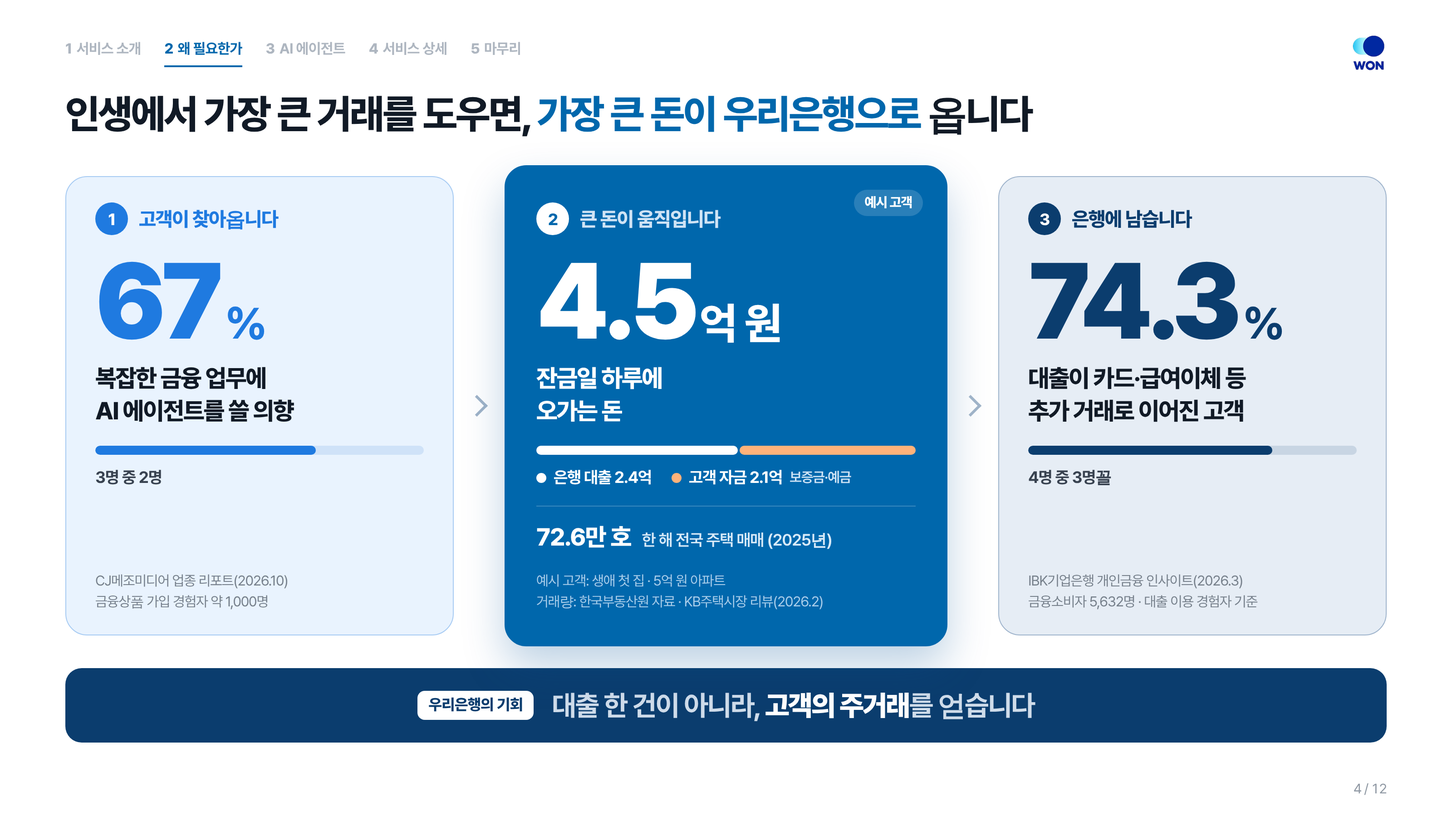
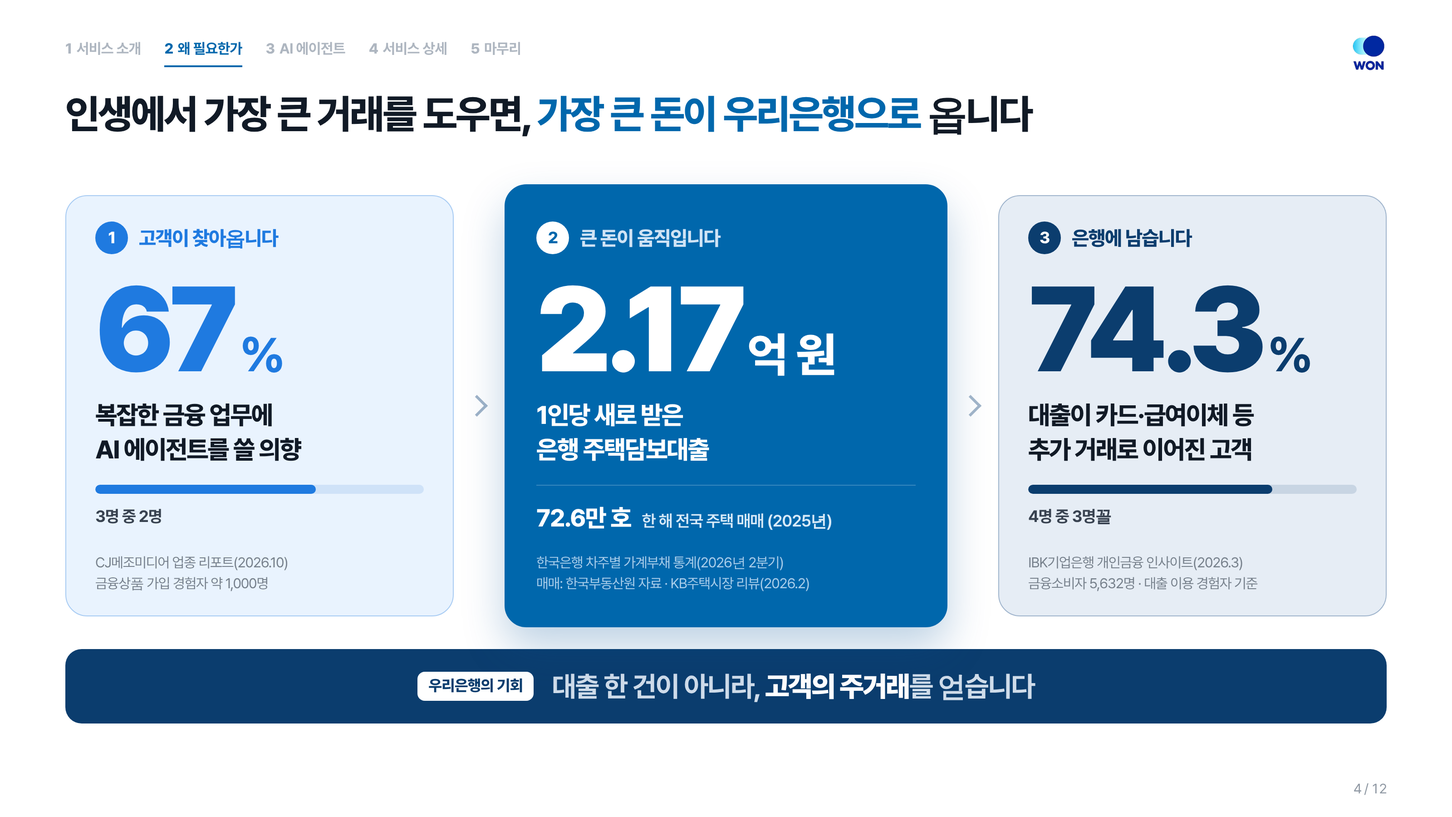
4장 가운데 카드를 실제 통계로 교체
- 예시 고객 잔금(4.5억 원) 대신 한국은행 차주별 가계부채 통계의
  은행 주담대 1인당 신규 취급액 2.17억 원(2026년 2분기)을 사용
- 큰 숫자 크기를 키우고 예시 막대·범례 규칙 삭제
- 대본 가운데 문장, 시간 검증(55초), 출처표, 예상 질문 갱신

Claude-Session: https://claude.ai/code/session_016QPZpXfBcxdxzD5M5Hwas6

diff --git a/p4_revision/04_우리은행의기회_단독.html b/p4_revision/04_우리은행의기회_단독.html
@@ -389,16 +389,16 @@ svg.i{width:1em;height:1em;fill:none;stroke:currentColor;stroke-width:1.9;stroke
 
 /* ───────── S4 우리은행의 기회: 고객이 찾아오고 → 큰 돈이 움직이고 → 은행에 남는다 ─────────
    색은 왼쪽(고객 쪽 밝은 블루)에서 오른쪽(은행 쪽 남색)으로 깊어지고, 가운데 '큰 돈'만 채운 블루로 주인공을 만든다.
-   큰 숫자는 비례폭 숫자(tabular-nums 쓰지 않음). 막대는 얇게(10px), 조각 사이 2px 간격, 범례로 이름을 붙인다. */
+   큰 숫자는 비례폭 숫자(tabular-nums 쓰지 않음). 비율 막대는 얇게(10px), 빈 트랙은 같은 계열의 옅은 색. */
 .op{gap:24px;padding-top:4px}
 .op-flow{display:grid;grid-template-columns:1fr 1.14fr 1fr;gap:56px;align-items:stretch}
 .op-card{position:relative;display:flex;flex-direction:column;padding:28px 32px 24px;border-radius:24px;background:var(--soft);border:1.5px solid var(--line)}
 .op-card:not(:last-child)::after{content:"";position:absolute;right:-35px;top:50%;width:14px;height:14px;border-top:3.5px solid #9fb3c8;border-right:3.5px solid #9fb3c8;transform:translateY(-50%) rotate(45deg)}
 .op-ey{display:flex;align-items:center;gap:12px;font-size:22px;font-weight:800;letter-spacing:-.035em;line-height:1.3}
 .op-ey i{width:36px;height:36px;border-radius:50%;display:grid;place-items:center;font-style:normal;font-size:18px;font-weight:800;color:#fff;flex:none}
-.op-big{margin:8px 0 2px;font-size:118px;font-weight:900;line-height:1.1;letter-spacing:-.05em;white-space:nowrap}
-.op-big small{font-size:48px;font-weight:800;margin-left:6px;letter-spacing:-.03em}
-.op-k{font-size:27px;font-weight:800;line-height:1.34;color:var(--ink);letter-spacing:-.04em}
+.op-big{margin:10px 0 4px;font-size:132px;font-weight:900;line-height:1.1;letter-spacing:-.05em;white-space:nowrap}
+.op-big small{font-size:52px;font-weight:800;margin-left:6px;letter-spacing:-.03em}
+.op-k{font-size:28px;font-weight:800;line-height:1.34;color:var(--ink);letter-spacing:-.04em}
 .op-card cite{display:block;margin-top:auto;padding-top:16px;font-style:normal;font-size:15.5px;line-height:1.5;color:#77818c}
 /* 비율 막대(미터): 채운 부분 = 카드 색, 빈 트랙 = 같은 계열의 옅은 색 */
 .op-meter{height:10px;margin-top:20px;border-radius:5px;background:var(--trk);overflow:hidden}
@@ -406,13 +406,11 @@ svg.i{width:1em;height:1em;fill:none;stroke:currentColor;stroke-width:1.9;stroke
 .op-cap{margin-top:12px;font-size:18px;font-weight:700;color:var(--text);line-height:1.4}
 /* 막대 연출: 숫자 카운트업과 같은 박자로 차오른다(뒤로 돌아오면·동작 줄이기·인쇄에서는 바로 완성) */
 @keyframes opGrow{from{width:0}}
-@keyframes opWipe{from{clip-path:inset(0 100% 0 0)}to{clip-path:inset(0 0 0 0)}}
 .frame.on:not(.back) .op-meter i{animation:opGrow .8s cubic-bezier(.2,.7,.2,1) both;animation-delay:calc(var(--d,0s) + .15s)}
-.frame.on:not(.back) .op-bar{animation:opWipe .8s cubic-bezier(.2,.7,.2,1) both;animation-delay:calc(var(--d,0s) + .15s)}
-/* ① 고객 */
 /* 가운데 카드를 크게 보이게: 가운데에 음수 여백을 주지 않고 양옆 카드에 위아래 12px 여백을 준다
    (음수 여백은 PDF 인쇄 때 Chromium이 행 높이에서 빼지 않아 카드가 하단 바와 겹친다) */
 .op-card.c1,.op-card.c3{margin:12px 0}
+/* ① 고객 */
 .op-card.c1{background:var(--ai-l);border-color:var(--ai-m);--trk:#cfe2f8;--fil:var(--ai)}
 .op-card.c1 .op-ey,.op-card.c1 .op-big{color:var(--ai)}
 .op-card.c1 .op-ey i{background:var(--ai)}
@@ -422,14 +420,7 @@ svg.i{width:1em;height:1em;fill:none;stroke:currentColor;stroke-width:1.9;stroke
 .op-card.c2 .op-ey i{background:#fff;color:var(--blue)}
 .op-card.c2 .op-big,.op-card.c2 .op-k{color:#fff}
 .op-card.c2 cite{color:#a9cdea}
-.op-ex{position:absolute;right:26px;top:26px;font-size:15px;font-weight:800;color:#fff;background:rgba(255,255,255,.16);border-radius:999px;padding:3px 12px}
-.op-bar{display:flex;gap:2px;height:10px;margin-top:20px}
-.op-bar i{display:block;height:100%;border-radius:5px}
-.op-lg{display:flex;flex-wrap:wrap;gap:6px 22px;margin-top:12px;font-size:18px;font-weight:700;color:#fff;line-height:1.4}
-.op-lg li{display:flex;align-items:center;gap:8px}
-.op-lg li::before{content:"";width:11px;height:11px;border-radius:50%;background:var(--c);flex:none}
-.op-lg small{font-size:15.5px;font-weight:600;color:#cfe3f5}
-.op-n{display:flex;align-items:baseline;gap:12px;margin-top:18px;padding-top:14px;border-top:1px solid rgba(255,255,255,.22);font-size:18px;font-weight:600;color:#d8eaf8}
+.op-n{display:flex;align-items:baseline;gap:12px;margin-top:20px;padding-top:16px;border-top:1px solid rgba(255,255,255,.22);font-size:18px;font-weight:600;color:#d8eaf8}
 .op-n b{font-size:27px;font-weight:800;color:#fff;letter-spacing:-.03em}
 /* ③ 은행 */
 .op-card.c3{background:var(--sys-l);border-color:var(--sys-m);--trk:#c8d5e3;--fil:var(--sys)}
@@ -668,14 +659,11 @@ html.pres.idle,html.pres.idle *{cursor:none}
         <cite>CJ메조미디어 업종 리포트(2026.10)<br>금융상품 가입 경험자 약 1,000명</cite>
       </li>
       <li class="op-card c2 rv">
-        <span class="op-ex">예시 고객</span>
         <p class="op-ey"><i>2</i>큰 돈이 움직입니다</p>
-        <p class="op-big"><span data-cu="4">4</span>.5<small>억 원</small></p>
-        <p class="op-k">잔금일 하루에<br>오가는 돈</p>
-        <div class="op-bar" role="img" aria-label="잔금 4억 5,000만 원 = 은행 대출 2억 4,000만 원 + 고객 자금 2억 1,000만 원"><i style="flex:2.4;background:#ffffff"></i><i style="flex:2.1;background:#ffb27a"></i></div>
-        <ul class="op-lg"><li style="--c:#ffffff">은행 대출 2.4억</li><li style="--c:#ffb27a">고객 자금 2.1억 <small>보증금·예금</small></li></ul>
+        <p class="op-big"><span data-cu="2">2</span>.17<small>억 원</small></p>
+        <p class="op-k">1인당 새로 받은<br>은행 주택담보대출</p>
         <p class="op-n"><b>72.6만 호</b>한 해 전국 주택 매매 (2025년)</p>
-        <cite>예시 고객: 생애 첫 집 · 5억 원 아파트<br>거래량: 한국부동산원 자료 · KB주택시장 리뷰(2026.2)</cite>
+        <cite>한국은행 차주별 가계부채 통계(2026년 2분기)<br>매매: 한국부동산원 자료 · KB주택시장 리뷰(2026.2)</cite>
       </li>
       <li class="op-card c3 rv">
         <p class="op-ey"><i>3</i>은행에 남습니다</p>

diff --git a/p4_revision/WON첫집메이트_본선발표_1115_4장수정.html b/p4_revision/WON첫집메이트_본선발표_1115_4장수정.html
@@ -389,16 +389,16 @@ svg.i{width:1em;height:1em;fill:none;stroke:currentColor;stroke-width:1.9;stroke
 
 /* ───────── S4 우리은행의 기회: 고객이 찾아오고 → 큰 돈이 움직이고 → 은행에 남는다 ─────────
    색은 왼쪽(고객 쪽 밝은 블루)에서 오른쪽(은행 쪽 남색)으로 깊어지고, 가운데 '큰 돈'만 채운 블루로 주인공을 만든다.
-   큰 숫자는 비례폭 숫자(tabular-nums 쓰지 않음). 막대는 얇게(10px), 조각 사이 2px 간격, 범례로 이름을 붙인다. */
+   큰 숫자는 비례폭 숫자(tabular-nums 쓰지 않음). 비율 막대는 얇게(10px), 빈 트랙은 같은 계열의 옅은 색. */
 .op{gap:24px;padding-top:4px}
 .op-flow{display:grid;grid-template-columns:1fr 1.14fr 1fr;gap:56px;align-items:stretch}
 .op-card{position:relative;display:flex;flex-direction:column;padding:28px 32px 24px;border-radius:24px;background:var(--soft);border:1.5px solid var(--line)}
 .op-card:not(:last-child)::after{content:"";position:absolute;right:-35px;top:50%;width:14px;height:14px;border-top:3.5px solid #9fb3c8;border-right:3.5px solid #9fb3c8;transform:translateY(-50%) rotate(45deg)}
 .op-ey{display:flex;align-items:center;gap:12px;font-size:22px;font-weight:800;letter-spacing:-.035em;line-height:1.3}
 .op-ey i{width:36px;height:36px;border-radius:50%;display:grid;place-items:center;font-style:normal;font-size:18px;font-weight:800;color:#fff;flex:none}
-.op-big{margin:8px 0 2px;font-size:118px;font-weight:900;line-height:1.1;letter-spacing:-.05em;white-space:nowrap}
-.op-big small{font-size:48px;font-weight:800;margin-left:6px;letter-spacing:-.03em}
-.op-k{font-size:27px;font-weight:800;line-height:1.34;color:var(--ink);letter-spacing:-.04em}
+.op-big{margin:10px 0 4px;font-size:132px;font-weight:900;line-height:1.1;letter-spacing:-.05em;white-space:nowrap}
+.op-big small{font-size:52px;font-weight:800;margin-left:6px;letter-spacing:-.03em}
+.op-k{font-size:28px;font-weight:800;line-height:1.34;color:var(--ink);letter-spacing:-.04em}
 .op-card cite{display:block;margin-top:auto;padding-top:16px;font-style:normal;font-size:15.5px;line-height:1.5;color:#77818c}
 /* 비율 막대(미터): 채운 부분 = 카드 색, 빈 트랙 = 같은 계열의 옅은 색 */
 .op-meter{height:10px;margin-top:20px;border-radius:5px;background:var(--trk);overflow:hidden}
@@ -406,13 +406,11 @@ svg.i{width:1em;height:1em;fill:none;stroke:currentColor;stroke-width:1.9;stroke
 .op-cap{margin-top:12px;font-size:18px;font-weight:700;color:var(--text);line-height:1.4}
 /* 막대 연출: 숫자 카운트업과 같은 박자로 차오른다(뒤로 돌아오면·동작 줄이기·인쇄에서는 바로 완성) */
 @keyframes opGrow{from{width:0}}
-@keyframes opWipe{from{clip-path:inset(0 100% 0 0)}to{clip-path:inset(0 0 0 0)}}
 .frame.on:not(.back) .op-meter i{animation:opGrow .8s cubic-bezier(.2,.7,.2,1) both;animation-delay:calc(var(--d,0s) + .15s)}
-.frame.on:not(.back) .op-bar{animation:opWipe .8s cubic-bezier(.2,.7,.2,1) both;animation-delay:calc(var(--d,0s) + .15s)}
-/* ① 고객 */
 /* 가운데 카드를 크게 보이게: 가운데에 음수 여백을 주지 않고 양옆 카드에 위아래 12px 여백을 준다
    (음수 여백은 PDF 인쇄 때 Chromium이 행 높이에서 빼지 않아 카드가 하단 바와 겹친다) */
 .op-card.c1,.op-card.c3{margin:12px 0}
+/* ① 고객 */
 .op-card.c1{background:var(--ai-l);border-color:var(--ai-m);--trk:#cfe2f8;--fil:var(--ai)}
 .op-card.c1 .op-ey,.op-card.c1 .op-big{color:var(--ai)}
 .op-card.c1 .op-ey i{background:var(--ai)}
@@ -422,14 +420,7 @@ svg.i{width:1em;height:1em;fill:none;stroke:currentColor;stroke-width:1.9;stroke
 .op-card.c2 .op-ey i{background:#fff;color:var(--blue)}
 .op-card.c2 .op-big,.op-card.c2 .op-k{color:#fff}
 .op-card.c2 cite{color:#a9cdea}
-.op-ex{position:absolute;right:26px;top:26px;font-size:15px;font-weight:800;color:#fff;background:rgba(255,255,255,.16);border-radius:999px;padding:3px 12px}
-.op-bar{display:flex;gap:2px;height:10px;margin-top:20px}
-.op-bar i{display:block;height:100%;border-radius:5px}
-.op-lg{display:flex;flex-wrap:wrap;gap:6px 22px;margin-top:12px;font-size:18px;font-weight:700;color:#fff;line-height:1.4}
-.op-lg li{display:flex;align-items:center;gap:8px}
-.op-lg li::before{content:"";width:11px;height:11px;border-radius:50%;background:var(--c);flex:none}
-.op-lg small{font-size:15.5px;font-weight:600;color:#cfe3f5}
-.op-n{display:flex;align-items:baseline;gap:12px;margin-top:18px;padding-top:14px;border-top:1px solid rgba(255,255,255,.22);font-size:18px;font-weight:600;color:#d8eaf8}
+.op-n{display:flex;align-items:baseline;gap:12px;margin-top:20px;padding-top:16px;border-top:1px solid rgba(255,255,255,.22);font-size:18px;font-weight:600;color:#d8eaf8}
 .op-n b{font-size:27px;font-weight:800;color:#fff;letter-spacing:-.03em}
 /* ③ 은행 */
 .op-card.c3{background:var(--sys-l);border-color:var(--sys-m);--trk:#c8d5e3;--fil:var(--sys)}
@@ -766,14 +757,11 @@ html.pres.idle,html.pres.idle *{cursor:none}
         <cite>CJ메조미디어 업종 리포트(2026.10)<br>금융상품 가입 경험자 약 1,000명</cite>
       </li>
       <li class="op-card c2 rv">
-        <span class="op-ex">예시 고객</span>
         <p class="op-ey"><i>2</i>큰 돈이 움직입니다</p>
-        <p class="op-big"><span data-cu="4">4</span>.5<small>억 원</small></p>
-        <p class="op-k">잔금일 하루에<br>오가는 돈</p>
-        <div class="op-bar" role="img" aria-label="잔금 4억 5,000만 원 = 은행 대출 2억 4,000만 원 + 고객 자금 2억 1,000만 원"><i style="flex:2.4;background:#ffffff"></i><i style="flex:2.1;background:#ffb27a"></i></div>
-        <ul class="op-lg"><li style="--c:#ffffff">은행 대출 2.4억</li><li style="--c:#ffb27a">고객 자금 2.1억 <small>보증금·예금</small></li></ul>
+        <p class="op-big"><span data-cu="2">2</span>.17<small>억 원</small></p>
+        <p class="op-k">1인당 새로 받은<br>은행 주택담보대출</p>
         <p class="op-n"><b>72.6만 호</b>한 해 전국 주택 매매 (2025년)</p>
-        <cite>예시 고객: 생애 첫 집 · 5억 원 아파트<br>거래량: 한국부동산원 자료 · KB주택시장 리뷰(2026.2)</cite>
+        <cite>한국은행 차주별 가계부채 통계(2026년 2분기)<br>매매: 한국부동산원 자료 · KB주택시장 리뷰(2026.2)</cite>
       </li>
       <li class="op-card c3 rv">
         <p class="op-ey"><i>3</i>은행에 남습니다</p>

diff --git a/p4_revision/04_대본.md b/p4_revision/04_대본.md
@@ -2,16 +2,17 @@
 
 > 대상 파일: `WON첫집메이트_본선발표_1115_4장수정.html` (12장 중 4장만 교체, 나머지 11장은 원본과 같음)
 > 단독 미리보기: `04_우리은행의기회_단독.html` · 이미지: `04_우리은행의기회.png`
+> 수정 이력: v2 — 가운데 카드를 예시 고객 금액(4.5억 원)에서 **한국은행 실제 통계(은행 주담대 1인당 신규 2.17억 원)**로 교체. 이제 화면의 숫자는 모두 실제 통계입니다.
 
 ## 한눈에 보기
 
 | 항목 | 내용 |
 |---|---|
 | 배정 시간 | 0:55 (덱 기준 누적 1:45 → 2:40) |
-| 예상 시간 | **0:56** (264음절 · 가리킴 4회 · 전환 1회, 분당 300음절 기준) |
+| 예상 시간 | **0:55** (260음절 · 가리킴 4회 · 전환 1회, 분당 300음절 기준) |
 | 핵심 메시지 | 고객이 찾아오고 → 가장 큰 돈이 움직이고 → 은행에 남는다. 그래서 **대출 한 건이 아니라 고객의 주거래**를 얻는다 |
 | 제목 | 인생에서 가장 큰 거래를 도우면, **가장 큰 돈이 우리은행으로** 옵니다 |
-| 시선 순서 | ① 67% → ② 4.5억 원(막대) → ③ 74.3% → ④ 하단 남색 바 |
+| 시선 순서 | ① 67% → ② 2.17억 원 → ③ 74.3% → ④ 하단 남색 바 |
 
 ---
 
@@ -23,9 +24,9 @@
 
 먼저, 고객이 찾아옵니다. 금융상품 가입자 세 명 중 두 명은, 복잡한 금융 업무라면 AI 에이전트를 쓰겠다고 답했습니다.
 
-> **◆ 가리킬 곳 2** — ② 4.5억 원 카드의 흰색·주황 막대
+> **◆ 가리킬 곳 2** — ② 2.17억 원 카드
 
-가장 복잡한 이 거래에서, 가장 큰 돈이 움직입니다. 저희 예시 고객은 잔금일 하루에만 4억 5천만 원을 움직입니다. 은행 대출과 고객 자금이 한꺼번에요. 이런 집 거래가 작년 한 해에만 72만 건이 넘었습니다.
+가장 복잡한 이 거래에서, 가장 큰 돈이 움직입니다. 은행에서 주택담보대출을 새로 받는 사람은, 1인당 평균 2억 원이 넘습니다. 그리고 집을 사고파는 거래가, 작년 한 해에만 72만 건이 넘었습니다.
 
 > **◆ 가리킬 곳 3** — ③ 74.3% 카드
 
@@ -42,21 +43,21 @@
 ## 말하는 요령
 
 - 첫 문장 뒤에 **한 박자 쉽니다.** 3장의 '고객 혼자 하는 확인'에서 '은행의 기회'로 넘어가는 문장입니다.
-- 숫자는 화면에 있는 그대로 읽습니다. 67%는 카드 아래 작은 글씨와 같은 "세 명 중 두 명"으로, 74.3%는 "칠십사 점 삼 퍼센트"로 읽습니다.
-- "4억 5천만 원"은 '예시 고객'이라고 꼭 붙입니다. 카드 오른쪽 위 '예시 고객' 표시와 맞춥니다. 72만 건은 실제 통계입니다(화면에는 72.6만 호).
-- 힘을 줄 단어는 **"가장 큰 돈"**, **"대출은 시작일 뿐입니다"**, **"주거래"** 셋입니다.
-- 시간이 남으면 [전환] 앞에 이 문장을 넣어도 됩니다(+10초): *"게다가 우리은행은 디딤돌대출 같은 주택도시기금 대출을 맡는 간사 수탁은행이라, 첫 집 고객을 만날 접점이 이미 있습니다."*
+- 숫자는 화면과 맞춰 읽습니다. 67%는 카드 아래 작은 글씨와 같은 "세 명 중 두 명", 2.17억 원은 "2억 원이 넘습니다", 74.3%는 "칠십사 점 삼 퍼센트"입니다.
+- 2.17억 원은 **"집 살 때 빌린 돈"이라고 말하지 않습니다.** 기존 대출의 증액·대환도 들어 있는 통계라서 "주택담보대출을 새로 받는 사람"이라고 말합니다.
+- 힘을 줄 말은 **"가장 큰 돈"**, **"대출은 시작일 뿐입니다"**, **"주거래"** 세 곳입니다.
+- 시간이 남으면 ② 카드 설명 끝에 이 문장을 넣어도 됩니다(+5초). 뒤에 나올 시연 고객과 이어집니다: *"저희 예시 고객의 대출 2억 4천만 원도, 바로 이 수준입니다."*
 
 ## 시간 검증
 
-기존 대본과 같은 기준입니다. 분당 300음절로 말하고, 숫자는 읽는 소리로 셉니다(4억 5천만 → 사억 오천만). 가리킬 때마다 0.6초, 전환에 1초를 더했습니다.
+기존 대본과 같은 기준입니다. 분당 300음절로 말하고, 숫자는 읽는 소리로 셉니다(2억 → 이억). 가리킬 때마다 0.6초, 전환에 1초를 더했습니다.
 
 | 말하기 속도 | 예상 시간 |
 |---|---|
-| 기준(분당 300음절) | **56초** |
-| 조금 빠르게(분당 325음절) | 52초 |
-| 조금 느리게(분당 280음절) | 60초 |
-| 선택 문장 포함(기준 속도) | 66초 |
+| 기준(분당 300음절) | **55초** |
+| 조금 빠르게(분당 325음절) | 51초 |
+| 조금 느리게(분당 280음절) | 59초 |
+| 선택 문장 포함(기준 속도) | 60초 |
 
 ---
 
@@ -65,13 +66,14 @@
 | 화면 숫자 | 정확한 내용 | 출처 | 확인 |
 |---|---|---|---|
 | **67%** | 금융상품 가입 경험자의 67%가 복잡한 금융 업무에 AI 에이전트를 이용할 의향 | CJ메조미디어 「2026 패션·금융 업종 분석 리포트」(2026.10). 서울·경기·5대 광역시 약 1,000명 온라인 설문 | 보도·CJ뉴스룸 원문 확인 |
-| **4.5억 원** | 예시 고객 잔금 4억 5,000만 = 대출 2억 4,000만 + 고객 자금 2억 1,000만(보증금 2억 + 예금 1,000만) | 덱 2·3장, 시연 화면과 같은 예시 조건 | 덱 안 금액 합계 대조 |
+| **2.17억 원** | 은행 업권 주택담보대출 1인당 신규 취급액 **2억 1,697만 원**. 전 업권은 2억 829만 원(전분기 2억 2,939만 원보다 9.2% 감소). 신규 차주와 기존 대출의 증액·대환 포함 | 한국은행 「2026년 2분기 차주별 가계부채 통계」(2026.8.25 발표). NICE 신용정보 차주 약 235만 명 표본. 3분기 통계는 아직 발표 전이라 가장 최근 수치 | 보도 원문 확인 |
 | **72.6만 호** | 2025년 전국 주택 매매 거래량 72.6만 호(전년 대비 13% 증가) | 한국부동산원 자료, KB주택시장 리뷰 2026년 2월호(2026.2.13) | KB 원문 확인 |
 | **74.3%** | 대출 이용 경험자 74.3%가 대출을 계기로 신용카드 발급, 급여이체 등록 등 부수거래를 경험 | IBK기업은행 「2026 개인금융 인사이트: IBK가 묻고 고객이 답하다」(2026.3.17). 금융소비자 5,632명 온라인 설문·인터뷰 | 보도 원문 확인 |
-| (선택 문장) 간사 수탁은행 | 우리은행이 주택도시기금 간사 수탁은행으로 선정됨. 위탁 기간 2023.4.1~2028.3.31. 구입·전월세자금 대출 등 수요자 대출과 사업자 대출 담당 | 국토교통부 발표(2023.2.17) 보도 | 보도 원문 확인. '연속 선정', '점유율 1위' 표현은 이 원문에 없어 쓰지 않음 |
+| (Q&A) 간사 수탁은행 | 우리은행이 주택도시기금 간사 수탁은행으로 선정됨. 위탁 기간 2023.4.1~2028.3.31. 구입·전월세자금 대출 등 수요자 대출과 사업자 대출 담당 | 국토교통부 발표(2023.2.17) 보도 | 보도 원문 확인. '연속 선정', '점유율 1위' 표현은 이 원문에 없어 쓰지 않음 |
 
 원문 링크
 - 67%: [파이낸셜뉴스 2026.10.1](https://www.fnnews.com/news/202610011112457473) · [CJ뉴스룸](https://cjnews.cj.net/?p=80665)
+- 2.17억 원: [파이낸셜뉴스 2026.8.25 — 주담대 다시 움츠러들었다](https://www.fnnews.com/news/202608250846051334) · (참고: 이 통계를 처음 공개한 2025년 3분기 결과) [헤럴드경제 2025.12.21](https://www.heraldk.com/article/2025122121392959197)
 - 72.6만 호: [KB주택시장 리뷰 2026년 2월호 — 매매 거래](https://kbthink.com/realestate/insights/research/260213-3.html)
 - 74.3%: [헤럴드경제 2026.3.17](https://www.heraldk.com/article/2026031718144534867)
 - 간사 수탁은행: [비즈워치 2023.2.17](https://news.bizwatch.co.kr/article/real_estate/2023/02/17/0004)
@@ -81,20 +83,26 @@
 
 ## 이 장에서 나올 만한 질문
 
-**Q. 74.3%는 다른 은행 조사인데, 우리은행에도 해당합니까?**
-특정 은행 고객의 결과라기보다 대출과 부수거래의 관계를 보여 주는 국내 최신 조사라서 인용했습니다. IBK기업은행이 올해 3월 금융소비자 5,632명을 조사한 결과이고, 보고서도 대출을 '핵심 개인금융 영업 접점'으로 해석했습니다. 우리은행에서의 실제 전환율은 10장의 지표(상담 전환율·자동이체 유지율)로 시범 운영에서 확인하겠습니다.
+**Q. 2.17억 원은 집을 살 때 빌린 돈입니까?**
+대부분은 그렇지만 전부는 아닙니다. 한국은행의 주택담보대출 신규 취급액 통계라서 기존 대출의 증액과 대환도 들어 있습니다. 그래서 화면에는 '주택 구입 대출'이 아니라 '1인당 새로 받은 은행 주택담보대출'이라고 적었습니다. 올해 8월 25일 발표된 2분기 통계이고, NICE 신용정보 차주 약 235만 명을 표본으로 했습니다.
 
-**Q. 4억 5천만 원은 실제 데이터입니까?**
-아닙니다. 발표 내내 따라가는 예시 고객의 조건입니다(5억 원 아파트, 계약금 5,000만 원을 뺀 잔금). 그래서 화면에 '예시 고객'이라고 적었습니다. 시장 규모는 실제 통계인 2025년 전국 주택 매매 72.6만 호로 보여 드렸습니다.
+**Q. 일부러 큰 숫자를 고른 것 아닙니까?**
+은행 심사라서 은행 업권 수치를 썼습니다. 전 업권 평균은 2억 829만 원이라 어느 쪽이든 1인당 2억 원이 넘습니다. 그리고 최고치였던 1분기(2억 2,939만 원)가 아니라 가장 최근인 2분기 수치를 썼습니다. 참고로 연령대별로는 30대가 1인당 2억 6,358만 원으로 가장 많습니다.
+
+**Q. 74.3%는 다른 은행 조사인데, 우리은행에도 해당합니까?**
+특정 은행 고객의 결과라기보다 대출과 부수거래의 관계를 보여 주는 국내 최신 조사라서 인용했습니다. IBK기업은행이 올해 3월 금융소비자 5,632명을 조사했고, 보고서도 대출을 '핵심 개인금융 영업 접점'으로 해석했습니다. 우리은행에서의 실제 전환율은 10장의 지표(상담 전환율·자동이체 유지율)로 시범 운영에서 확인하겠습니다.
+
+**Q. 시연에 나오는 예시 고객 금액은 현실적입니까?**
+네. 예시 고객의 대출 2억 4,000만 원은 은행 주택담보대출 1인당 평균(2억 1,697만 원)과 비슷한 수준입니다.
 
 **Q. 그래서 수익은 얼마입니까?**
 근거 없는 금액은 제시하지 않았습니다. 수익은 대출과 계좌·자동이체 같은 추가 거래에서 나오고, 반복 문의와 서류 누락이 줄어 비용도 줄어듭니다. 규모는 시범 운영에서 상담 전환율, 자동이체 유지율, 건당 운영비로 검증하겠습니다(10장).
 
 **Q. 왜 꼭 우리은행이어야 합니까?**
-우리은행은 디딤돌대출 같은 주택도시기금 대출을 맡는 간사 수탁은행입니다(2023~2028). 첫 집 고객을 만나는 접점이 이미 있으니, 그 순간을 잔금일과 입주 후까지 잇는 서비스가 가장 자연스럽게 붙습니다. 참고로 주거래은행 한 곳이 고객 은행 거래 중요도의 61.1%를 차지한다는 조사도 있어서(하나금융경영연구소), 주거래가 되는 것 자체가 큰 차이입니다.
+우리은행은 디딤돌대출 같은 주택도시기금 대출을 맡는 간사 수탁은행입니다(2023~2028). 첫 집 고객을 만나는 접점이 이미 있으니, 그 순간을 잔금일과 입주 후까지 잇는 서비스가 가장 자연스럽게 붙습니다. 주거래은행 한 곳이 고객 은행 거래 중요도의 61.1%를 차지한다는 조사도 있어서(하나금융경영연구소), 주거래가 되는 것 자체가 큰 차이입니다.
 
 **Q. 67%는 전체 소비자입니까?**
-아닙니다. 서울·경기·5대 광역시의 금융상품 가입 경험자 약 1,000명 온라인 설문입니다. 그래서 화면에도 '금융상품 가입 경험자'라고 적었습니다.
+아닙니다. 서울·경기·5대 광역시의 금융상품 가입 경험자 약 1,000명을 온라인으로 조사한 결과입니다. 그래서 화면에도 '금융상품 가입 경험자'라고 적었습니다.
 
 ---
 
@@ -102,10 +110,10 @@
 
 | | 원래 4장 | 수정 4장 |
 |---|---|---|
-| 논리 | 고객 67% ↔ 은행 15%를 양쪽에 두고 가운데 서비스 | 고객이 찾아옴(67%) → 큰 돈이 움직임(4.5억 원) → 은행에 남음(74.3%), **왼쪽에서 오른쪽 한 방향** |
+| 논리 | 고객 67% ↔ 은행 15%를 양쪽에 두고 가운데 서비스 | 고객이 찾아옴(67%) → 큰 돈이 움직임(2.17억 원) → 은행에 남음(74.3%), **왼쪽에서 오른쪽 한 방향** |
 | 은행 쪽 근거 | 영국 CASS 조사 15% "이사만으론 잘 안 바뀐다"(해외, 부정형) | **국내** IBK기업은행 2026년 조사 74.3% "대출이 추가 거래로 이어진다"(긍정형) |
-| 큰 돈 | 없음 | 예시 고객 잔금 4.5억 원(대출 2.4억 + 고객 자금 2.1억) + 2025년 주택 매매 72.6만 호 |
+| 큰 돈 | 없음 | **한국은행** 은행 주담대 1인당 신규 2.17억 원(2026년 2분기) + 2025년 주택 매매 72.6만 호 |
 | 마무리 | 점선 상자 '검증할 가설: 부담 감소 → 우리은행 선택 → 거래 유지' | 남색 결론 바 **'대출 한 건이 아니라, 고객의 주거래를 얻습니다'** |
-| 연출 | 숫자 카운트업 | 숫자 카운트업 + 막대가 같은 박자로 차오름(동작 줄이기 설정·인쇄·뒤로 가기에서는 바로 완성) |
+| 연출 | 숫자 카운트업 | 숫자 카운트업 + 비율 막대가 같은 박자로 차오름(동작 줄이기 설정·인쇄·뒤로 가기에서는 바로 완성) |
 
 검수: 1600×900 화면, 1280×720 창, PDF 인쇄(12쪽), 동작 줄이기 설정에서 확인했습니다. 넘침과 스크립트 오류는 없고, 4장을 뺀 나머지 내용은 원본과 글자 단위로 같습니다.
